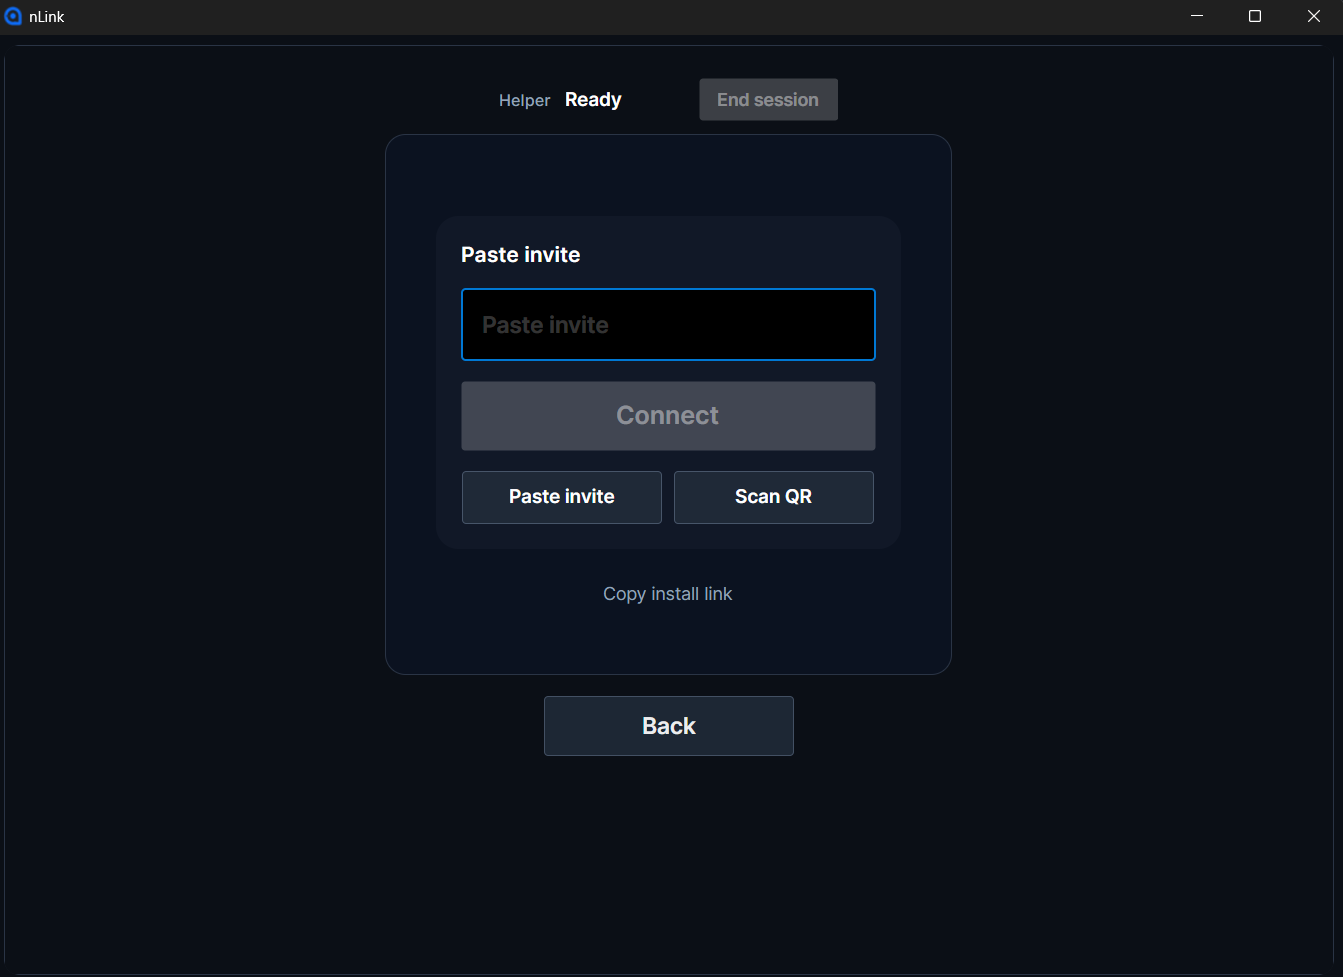
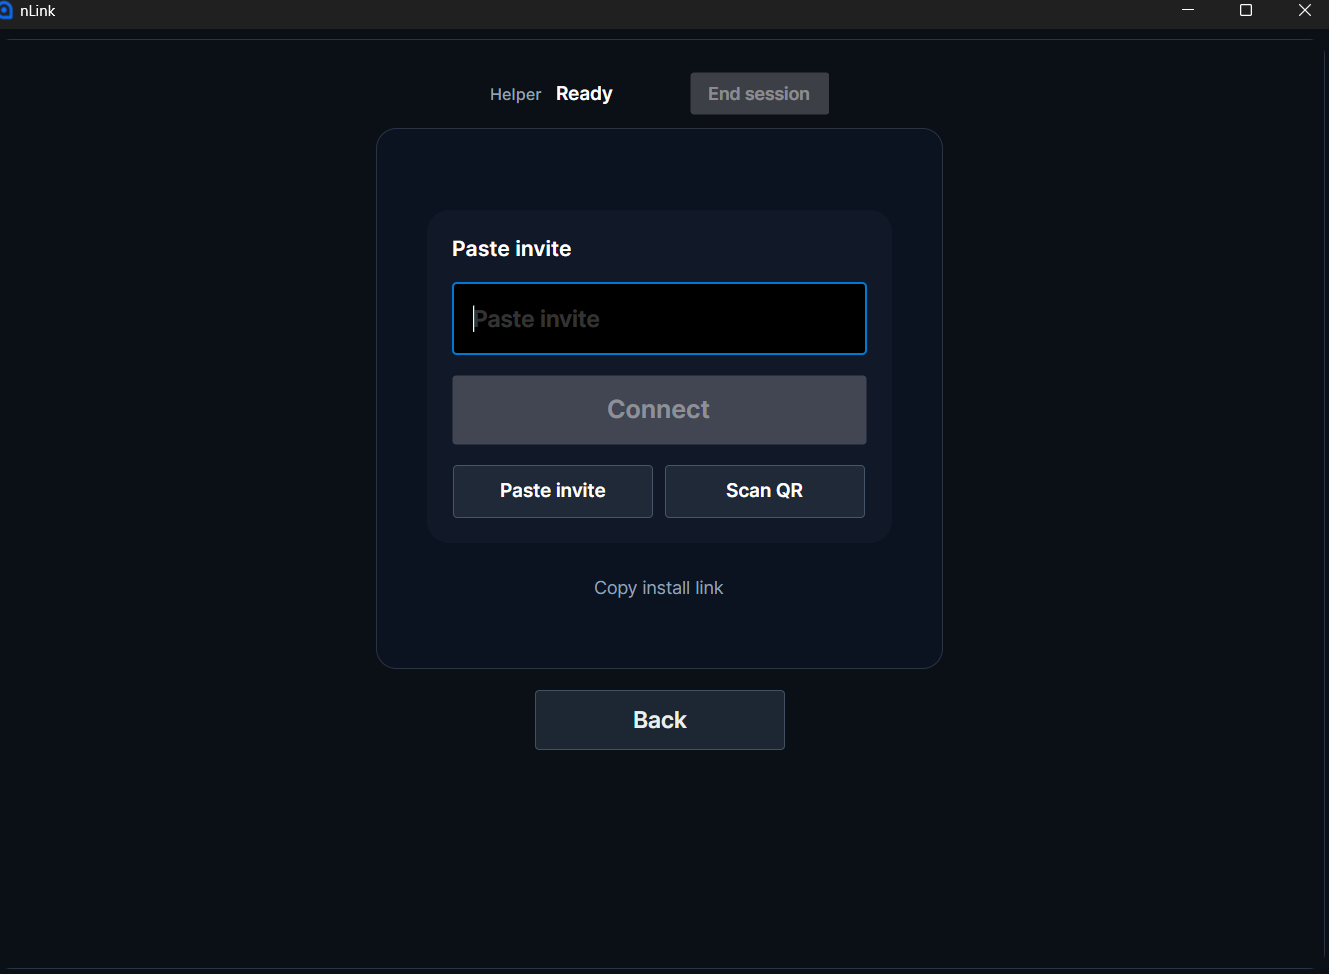
readme

diff --git a/README.md b/README.md
@@ -51,10 +51,6 @@ Notes:
 - Current release (`0.4.1`)
 - Installer path: `%LOCALAPPDATA%\Programs\nLink Helper`
 
-Versioning:
-- Release version uses SemVer (for example: `0.4.1`)
-- The current release version is stored in the repo-root `VERSION` file
-
 License:
 - MIT (see `LICENSE`)
 
